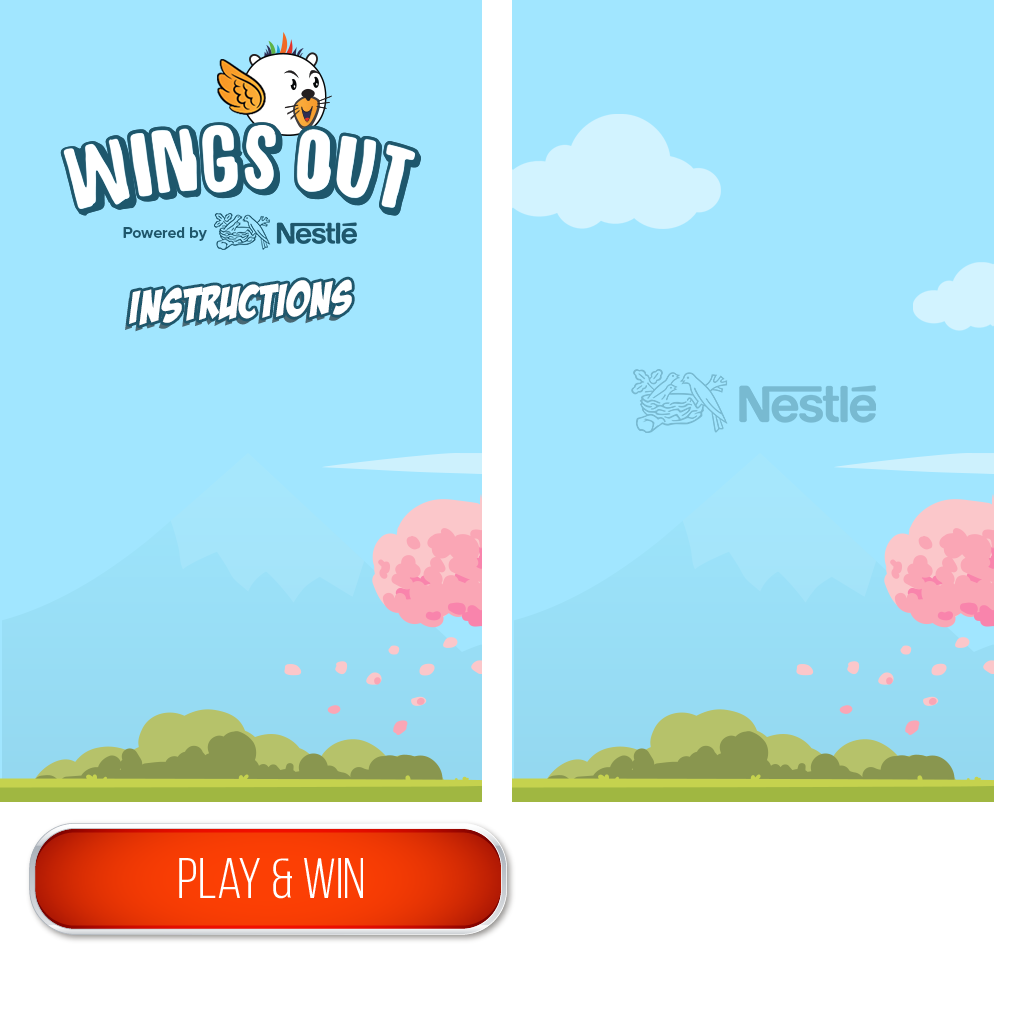
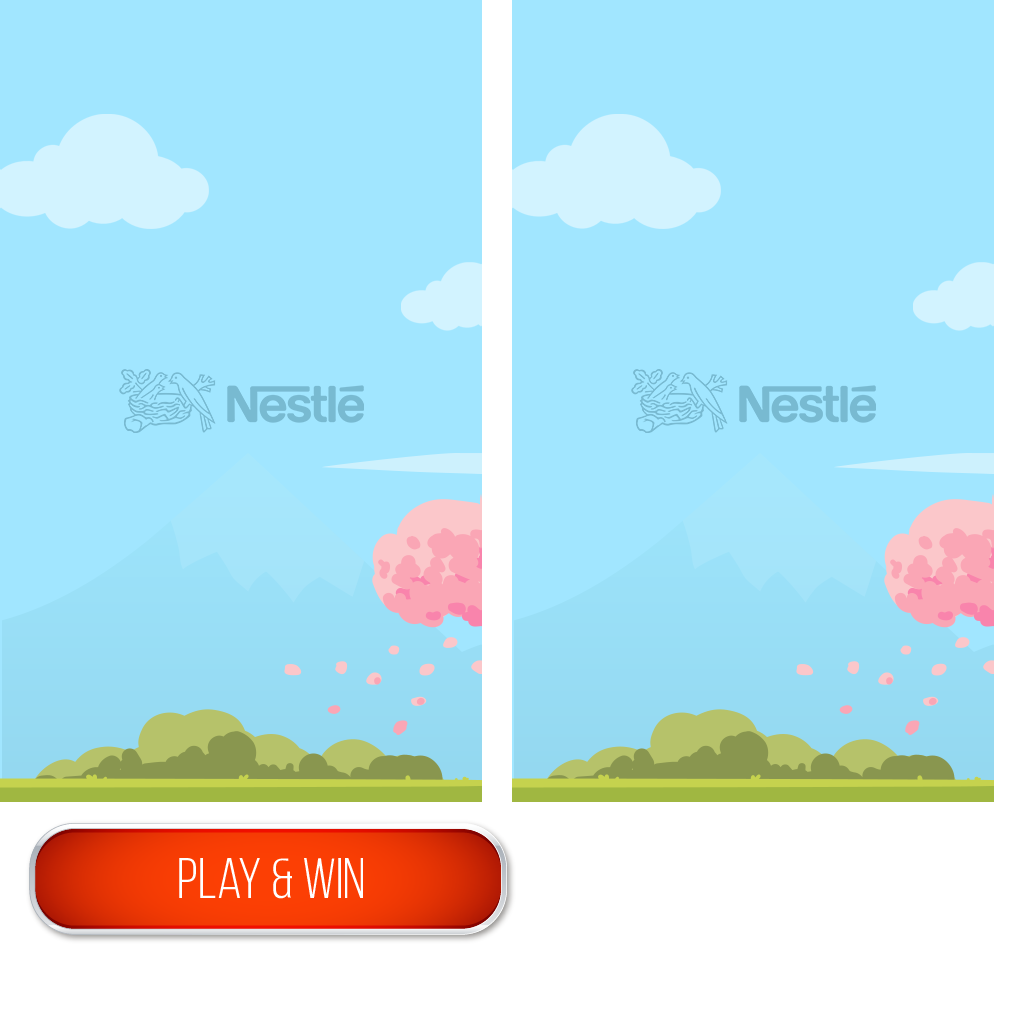
final

Changed region(s): [[0.0, 0.0312, 0.4062, 0.4375], [0.375, 0.25, 0.4688, 0.3438]]

diff --git a/data.js b/data.js
@@ -1,1 +1,1 @@
-{"project":["Flying Daz","Menu",[[0,false,true,true,true,true,true,true,true,false],[1,false,true,true,true,false,false,false,false,false],[3,true,false,false,false,false,false,false,false,false],[4,false,true,true,true,true,true,true,true,true],[5,false,true,true,true,true,true,true,true,false],[7,true,false,false,false,false,false,false,false,false],[8,true,false,false,false,false,false,false,false,false],[9,true,false,false,false,false,false,false,false,false],[10,false,true,true,true,false,false,false,false,false]],[["Sprite",0,false,[],0,0,null,[["Default",5,false,1,0,false,1393132005821332,[["images/shared-0-sheet0.png",163322,1,1,480,800,1,0.5,0.5,[],[-0.5,-0.5,0,-0.5,0.4979166666666667,-0.5,0.4979166666666667,0,0.4979166666666667,0.49875,0,0.49875,-0.5,0.49875,-0.5,0],0]]]],[],false,true,4964123340204649,[],null],["Sprite2",0,false,[],0,0,null,[["Default",5,false,1,0,false,5423385207864809,[["images/shared-0-sheet4.png",1073,0,0,108,61,1,0.5,0.508197,[],[-0.4444444,-0.40983630000000004,0,-0.4754101,0.44444399999999995,-0.40983630000000004,0.48148100000000005,-0.01639400000000002,0.453704,0.409836,0,0.47541,-0.4537037,0.409836,-0.4814815,-0.01639400000000002],0]]]],[],false,false,561258163338029,[],null],["Button2",1,false,[],0,0,null,null,[],false,false,2574843507174612,[],null],["Sprite3",0,false,[],0,0,null,[["Default",5,false,1,0,false,8356031828295757,[["images/shared-0-sheet3.png",49757,137,1,115,111,1,0.504348,0.504505,[],[-0.191305,-0.18018099999999998,-0.008696000000000037,-0.38738799999999995,0.017390999999999934,-0.009009999999999962,0.017390999999999934,-0.009009999999999962,0.37391299999999994,0.36936900000000006,-0.008696000000000037,0.495495,-0.38260900000000003,0.36936900000000006,-0.06956500000000004,-0.009009999999999962],0]]]],[],false,false,9533404973379886,[],null],["Sprite4",0,false,[],0,0,null,[["Default",5,false,1,0,false,6430424900520584,[["images/shared-0-sheet0.png",163322,513,1,480,800,1,0.5,0.500978,[],[-0.5,-0.500978,0,-0.500978,0.4979166666666667,-0.500978,0.4979166666666667,-0.0009780000000000344,0.4979166666666667,0.497772,0,0.497772,-0.5,0.497772,-0.5,-0.0009780000000000344],0]]]],[],false,false,576234191087211,[],null],["Sprite5",0,false,[],1,0,null,[["Default",10,false,1,0,false,5552198826423713,[["images/shared-0-sheet3.png",49757,129,182,102,72,1,0.5,0.5,[],[-0.21383512244897962,-0.3616071428571428,0.08928571428571452,-0.3511904761904762,0.2699575714285716,-0.04910714285714307,0.2728086530612246,0.27157738095238126,0.1195978979591843,0.48214252380952394,-0.08418367346938738,0.49627976190476186,-0.3568427959183674,0.11383895238095276,-0.346938775510204,-0.17485119047619024],0],["images/shared-0-sheet3.png",49757,1,182,102,72,1,0.5,0.5,[],[-0.16791675510204096,-0.19791666666666674,0.09948979591836726,-0.4107142857142857,0.25720246938775515,-0.2723214285714285,0.31362497959183666,0.141369047619048,0.25480197959183737,0.37797585714285675,0.04336734693877475,0.5,-0.19867953061224491,0.34821395238095243,-0.34183673469387754,-0.01860119047619041],0]]]],[["Platform",2,1593079543931459]],false,false,8880592809369787,[],null],["Mouse",3,false,[],0,0,null,null,[],false,false,4336291366746725,[],null,[]],["Sprite6",0,false,[6617839752655299],0,0,null,[["Default",5,false,1,0,false,1423263038755727,[["images/shared-0-sheet2.png",269226,107,1,104,640,1,0.508772,0.501538,[],[-0.508772,-0.501538,0.491228,-0.501538,0.44509146153846146,0.49787275,-0.017544000000000004,0.49846199999999996,-0.4571103923076923,0.492842625],0]]]],[],false,false,7213654666255091,[],null],["Sprite7",0,false,[],0,0,null,[["Default",5,false,1,0,false,2610034895066063,[["images/shared-0-sheet2.png",269226,1,1,104,640,1,0.5,0.501538,[],[-0.47081045384615383,-0.501538,0.45879092307692304,-0.501538,0.5,0.49846199999999996,-0.5,0.49621424999999997],0]]]],[],false,false,6358373644877836,[],null],["TiledBackground",4,false,[],0,0,["images/tiledbackground-sheet0.png",4222,0,0,0,337,17],null,[],false,false,8862384049867816,[],null],["TiledBackground2",4,false,[],0,0,["images/tiledbackground2-sheet0.png",4222,0,0,0,337,17],null,[],false,false,2397778750218094,[],null],["Text",5,false,[],0,0,null,null,[],false,false,5606101963679141,[],null],["Sprite8",0,false,[],0,0,null,[["Default",5,false,1,0,false,7712839185583907,[["images/shared-0-sheet2.png",269226,769,513,250,250,1,0.5,0.5,[],[],0]]]],[],false,false,5867399459174119,[],null],["Sprite9",0,false,[],1,0,null,[["Default",5,false,1,0,false,632513710534152,[["images/shared-0-sheet3.png",49757,1,1,134,134,1,0.5,0.503311,[],[-0.36666699999999997,-0.344371,0,-0.49668847999999993,0.37222200000000005,-0.35099299999999994,0.488889,-0.006621999999999961,0.3337481492537311,0.3343999402985074,0.004664179104477584,0.44801426865671645,-0.349523328358209,0.305667328358209,-0.49444444,-0.006621999999999961],0]]]],[["DragDrop",6,559007665408358]],false,true,336497991114589,[],null],["Touch",7,false,[],0,0,null,null,[],false,false,812771115847554,[],null,[true]],["Browser",8,false,[],0,0,null,null,[],false,false,968786528415499,[],null,[]],["Sprite10",0,false,[],0,0,null,[["Animation 1",5,false,1,0,false,998012637433276,[["images/shared-0-sheet2.png",269226,213,1,256,256,1,0.5,0.5,[],[-0.03125,-0.03125,0,-0.046875,0.046875,-0.05078125,0.4296875,0,0.015625,0.015625,0,0.1328125,-0.14453125,0.140625,-0.4453125,0],0]]]],[],false,false,596976730625195,[],null],["AJAX",9,false,[],0,0,null,null,[],false,false,525835348000193,[],null,[]],["Sprite11",0,false,[],0,0,null,[["Animation 1",5,false,1,0,false,259953315795058,[["images/shared-0-sheet1.png",143712,1,1,480,800,1,0.5,0.5,[],[-0.5,-0.5,0,-0.5,0.49750000000000005,-0.5,0.49750000000000005,0,0.49750000000000005,0.498,0,0.498,-0.5,0.498,-0.5,0],0]]]],[],false,false,387558426248170,[],null],["NameInput",10,false,[],0,0,null,null,[],false,false,889300060393533,[],null],["EmailInput",10,false,[],0,0,null,null,[],false,false,800542948052933,[],null],["PhoneInput",10,false,[],0,0,null,null,[],false,false,139598997962273,[],null],["NameText",5,false,[],0,0,null,null,[],false,false,335254482292807,[],null],["EmailText",5,false,[],0,0,null,null,[],false,false,346951033053218,[],null],["Text2",5,false,[],0,0,null,null,[],false,false,646911176194777,[],null],["Sprite12",0,false,[],0,0,null,[["Animation 1",5,false,1,0,false,591142330811460,[["images/shared-0-sheet2.png",269226,513,257,496,131,1,0.5,0.5,[],[-0.4073182779369861,-0.34398155758915255,-0.006944444444444586,-0.34968354430379744,0.40504037360896816,-0.33736780097539587,0.4352220956719819,0.05537974683544311,0.3859058156639268,0.3355084905717818,-0.01892921146953408,0.32007157165385014,-0.4054701596574163,0.3288947339580254,-0.45370370370370366,-0.06329113924050628],0]]]],[],false,false,367115732379633,[],null],["Confirmation",5,false,[],0,0,null,null,[],false,false,968940184656449,[],null],["Sprite13",0,false,[],0,0,null,[["Animation 1",5,false,1,0,false,904992826225042,[["images/shared-0-sheet2.png",269226,213,513,496,131,1,0.5,0.5,[],[-0.40880451457374534,-0.36416139240506323,0,-0.375,0.3883478522901602,-0.37739319620253164,0.4394039009423626,0,0.4037776682007451,0.31787974683544307,-0.004629629629629595,0.3491297468354432,-0.3968469208853824,0.3343354430379749,-0.4535598838483454,0.04746835443038],0]]]],[],false,false,505255774339353,[],null],["Sprite14",0,false,[],0,0,null,[["Animation 1",5,false,1,0,false,405608823074264,[["images/shared-0-sheet0.png",163322,1,803,540,158,1,0.5,0.5,[],[-0.41439636752136755,-0.3904449272624221,-0.009259259259259245,-0.38964985200579383,0.40495904558404594,-0.37676333522262107,0.44444444444444464,0,0.3865295584045586,0.3394499023868003,-0.02083333333333337,0.3369623401977454,-0.4029113247863248,0.33641129794067637,-0.46456552706552706,-0.015822784810126556],0]]]],[],false,false,547625119326240,[],null],["Sprite15",0,false,[],0,0,null,[["Animation 1",5,false,1,0,false,518076908544604,[["images/shared-0-sheet1.png",143712,513,1,480,800,1,0.5,0.5,[],[-0.5,-0.5,0,-0.5,0.4979166666666667,-0.5,0.4979166666666667,0,0.4979166666666667,0.49875,0,0.49875,-0.5,0.49875,-0.5,0],0]]]],[],false,false,921497973235513,[],null],["Sprite16",0,false,[],0,0,null,[["Animation 1",5,false,1,0,false,781584850527997,[["images/shared-0-sheet3.png",49757,1,137,242,43,1,0.5,0.5,[],[-0.49173553719008267,-0.4534883720930233,0,-0.4069767441860465,0.487603305785124,-0.4534883720930233,0.49586776859504134,0,0.487603305785124,0.43023255813953487,0,0.4534883720930233,-0.49586776859504134,0.4534883720930233,-0.5,0],0]]]],[],false,true,642240991751007,[],null],["Instructions",5,false,[],0,0,null,null,[],false,true,807218672933255,[],null],["Display",5,false,[],0,0,null,null,[],false,false,855406720276929,[],null],["Button",1,false,[],0,0,null,null,[],false,false,792601355615941,[],null],["High",5,false,[],0,0,null,null,[],false,false,115824838941316,[],null],["Top10",5,false,[],0,0,null,null,[],false,false,888615787788600,[],null],["decor",5,false,[],0,0,null,null,[],false,false,291602594127028,[],null],["Temp",5,false,[],0,0,null,null,[],false,false,254978526509571,[],null],["Sprite17",0,false,[],0,0,null,[["Animation 1",5,false,1,0,false,590957933364222,[["images/shared-0-sheet2.png",269226,769,769,250,250,1,0.5,0.5,[],[],0]]]],[],false,false,849879012657838,[],null],["topScore",0,false,[],0,0,null,[["Animation 1",5,false,1,0,false,489623775972270,[["images/shared-0-sheet2.png",269226,1,769,496,131,1,0.5,0.5,[],[-0.4596774193548387,-0.40458015267175573,0,-0.3969465648854962,0.43044354838709686,-0.3969465648854962,0.481350806451613,-0.01908396946564883,0.4329637096774194,0.40839694656488545,0.00252016129032262,0.3740458015267176,-0.44556451612903225,0.4007633587786259,-0.4879032258064516,0],0]]]],[],false,false,695021777928985,[],null],["Discore",5,false,[],0,0,null,null,[],false,false,384550051229533,[],null],["final",5,false,[],0,0,null,null,[],false,false,803522702923209,[],null],["Sprite19",0,false,[],0,0,null,[["Animation 1",5,false,1,0,false,683761427402653,[["images/shared-0-sheet1.png",143712,1,803,496,131,1,0.5,0.5,[],[-0.4175925925925926,-0.3686708860759494,-0.03703703703703726,-0.3734177215189874,0.39861111111111114,-0.3892405063291139,0.44259259259259254,0,0.3962962962962965,0.3354430379746838,0,0.35443037974683544,-0.40046296296296297,0.33544303797468356,-0.4550925925925926,0],0]]]],[],false,false,518707202247296,[],null],["last",0,false,[],0,0,null,[["Animation 1",5,false,1,0,false,319011380408783,[["images/shared-0-sheet1.png",143712,513,803,496,131,1,0.5,0.5,[],[-0.4175925925925926,-0.36867088607594933,0,-0.37341772151898733,0.3870370370370374,-0.36550632911392394,0.44259259259259254,0,0.3939814814814818,0.3354430379746838,0,0.35443037974683544,-0.40046296296296297,0.3433544303797469,-0.44814814814814813,0],0]]]],[],false,false,638338560809439,[],null],["Text3",5,false,[],0,0,null,null,[],false,true,212405193465464,[],null],["Text4",5,false,[],0,0,null,null,[],false,true,104815420703232,[],null],["visitStore",0,false,[],0,0,null,[["Animation 1",5,false,1,0,false,966169629942289,[["images/shared-0-sheet2.png",269226,513,1,496,131,1,0.5,0.5,[],[-0.4375,-0.2633587786259542,0,-0.4389312977099237,0.4516129032258065,-0.3244274809160306,0.4556451612903226,0,0.44354838709677424,0.2862595419847328,0,0.44656488549618323,-0.43548387096774194,0.24809160305343514,-0.43951612903225806,0],0]]]],[],false,false,507664983512350,[],null],["UniText",5,false,[],0,0,null,null,[],false,false,979966991095272,[],null],["UniInput",10,false,[],0,0,null,null,[],false,false,110320729418629,[],null]],[],[["Menu",480,800,false,"Event sheet 1",813435304774142,[["Layer 0",0,4928235318697103,true,[255,255,255],false,1,1,1,false,false,1,0,0,[[[241,401,0,478,800,0,0,1,0.5,0.5,0,0,[]],0,0,[],[],[true,"Default",0,true]],[[250,540,0,79.25408542362649,79.25408542362649,0,0,1,0.5,0.503311,0,0,[]],13,11,[],[[0,true]],[true,"Default",0,true]],[[246,470,0,192.7282699722893,34.24510582152248,0,0,1,0.5,0.5,0,0,[]],30,2,[],[],[true,"Animation 1",0,true]],[[12,347,0,439,98,0,0,1,0,0,0,0,[]],31,14,[],[],["1- Help Daz fly to the other side  \n2- Tap to make him fly higher and avoid bumping into the poles\n3- Score the highest for a chance to win a Dolce Gusto Coffee Machine\n4- Click on 'Play' to get started!",false,"Arial",11.5,0,false,false,[0,0.25098039215686274,0.5019607843137255],0,1,0,true,0]],[[12,588,0,200,30,0,0,1,0,0,0,0,[]],44,8,[],[],["TERMS & CONDITIONS:",false,"Arial",12,0,false,false,[0,0.25098039215686274,0.5019607843137255],0,0,0,true,0]],[[4,613,0,372,41,0,0,1,0,0,0,0,[]],45,9,[],[],["- Winner will be contacted via email  \n- Daraz reserves the right to award winners",false,"Arial",11,0,false,false,[0,0.25098039215686274,0.5019607843137255],0,0,0,true,0]]],[],0]],[],[]],["Game",480,800,false,"Event sheet 2",7054034641972203,[["Layer 0",0,360173619558835,true,[255,255,255],false,1,1,1,false,false,1,0,0,[[[239.5,401.502934,0,488,800,0,0,1,0.5,0.500978,0,0,[]],4,3,[],[],[true,"Default",0,true]],[[112,340,0,82.75100634929701,59.21386573416339,0,0,1,0.5,0.5,0,0,[]],5,4,[],[[0,1500,1500,650,1500,1000,false,0,true,true]],[true,"Default",0,true]],[[566.999938965,741.895385742,0,74,680,0,0,1,0.508772,0.501538,0,0,[]],7,6,[[0]],[],[true,"Default",0,true]],[[-59,10.750762939,0,73,477,0,0,1,0.5,0.501538,0,0,[]],8,7,[],[],[true,"Default",0,true]]],[],0],["Layer 1",1,824997212790849,true,[255,255,255],true,1,1,1,false,false,1,0,0,[[[25,41,0,270,74,0,0,1,0,0,0,0,[]],11,10,[],[],["0",false,"Arial",33,0,false,false,[1,1,0.8],0,0,0,true,0]]],[],0]],[],[]],["Final",480,800,false,"Event sheet 3",620830751206250,[["Layer 0",0,395103375760716,true,[255,255,255],false,1,1,1,false,false,1,0,0,[[[240.5,399.5,0,488,801,0,0,1,0.5,0.5,0,0,[]],18,16,[],[],[true,"Animation 1",0,true]],[[157,222,0,205.52159600320118,25.590237634639838,0,0,1,0,0,0,0,[]],19,17,[],[],["","","",true,true,false,false,0,true,""]],[[157,259,0,205.52159600320118,25.590237634639838,0,0,1,0,0,0,0,[]],20,18,[],[],["","","",true,true,false,false,0,true,""]],[[157,296,0,205.52159600320118,25.590237634639838,0,0,1,0,0,0,0,[]],21,19,[],[],["","","",true,true,false,false,4,true,""]],[[85,230,0,64.2337122343231,25.196907656224475,0,0,1,0,0,0,0,[]],22,20,[],[],["NAME",false,"Arial",12,0,false,false,[0,0.25098039215686274,0.5019607843137255],0,1,0,true,0]],[[84,266,0,75.38454718807449,24.875535524150507,0,0,1,0,0,0,0,[]],23,21,[],[],["EMAIL",false,"Arial",12,0,false,false,[0,0.25098039215686274,0.5019607843137255],0,1,0,true,0]],[[76,304,0,80.52868900676708,24.611475602706832,0,0,1,0,0,0,0,[]],24,22,[],[],["PHONE",false,"Arial",12,0,false,false,[0,0.25098039215686274,0.5019607843137255],0,1,0,true,0]],[[247,506,0,203.533,48.662,0,0,1,0.5,0.5,0,0,[]],25,23,[],[],[false,"Animation 1",0,true]],[[105,357,0,282,83,0,0,1,0,0,0,0,[]],26,24,[],[],["Score has been Added!!\nThank you for your Participation!\nStay Tuned with Daraz!\n",false,"Arial",12,0,false,false,[0,0.25098039215686274,0.5019607843137255],1,1,0,false,0]],[[246,564,0,203.533,48.662,0,0,1,0.5,0.5,0,0,[]],27,25,[],[],[true,"Animation 1",0,true]],[[95,160,0,314,60,0,0,1,0,0,0,0,[]],32,28,[],[],["has been logged!\nPlease submit your details.",false,"Arial",16,0,false,false,[0,0.25098039215686274,0.5019607843137255],1,0,0,true,0]],[[247,618,0,203.533,48.662,0,0,1,0.5,0.5,0,0,[]],39,26,[],[],[false,"Animation 1",0,true]],[[136,121,0,156,30,0,0,1,0,0,0,0,[]],40,33,[],[],["Your Score :",false,"Arial",20,0,false,false,[0,0.25098039215686274,0.5019607843137255],0,1,0,true,0]],[[295,117,0,157,40,0,0,1,0,0,0,0,[]],41,34,[],[],["0",false,"Arial",25,0,false,false,[0,0.25098039215686274,0.5019607843137255],0,0,0,true,0]],[[247,455,0,203.533,48.662,0,0,1,0.5,0.5,0,0,[]],46,37,[],[],[false,"Animation 1",0,true]],[[38,341,0,100.2337122343231,25.196907656224475,0,0,1,0,0,0,0,[]],47,40,[],[],["UNIVERSITY",false,"Arial",12,0,false,false,[0,0.25098039215686274,0.5019607843137255],0,1,0,true,0]],[[157,333,0,205.52159600320118,25.590237634639838,0,0,1,0,0,0,0,[]],48,39,[],[],["","","",true,true,false,false,0,true,""]]],[],0]],[],[]],["Splash",480,800,false,"Event sheet 4",334263116829157,[["Layer 0",0,426875695464246,true,[255,255,255],false,1,1,1,false,false,1,0,0,[[[240,400,0,480,800,0,0,1,0.5,0.5,0,0,[]],29,27,[],[],[true,"Animation 1",0,true]],[[143,111,0,200,30,0,0,1,0,0,0,0,[]],34,29,[],[],["Top 10 High Scores",false,"Arial",17,0,false,false,[1,1,1],0,0,0,true,0]],[[27,161,0,390,395,0,0,1,0,0,0,0,[]],35,30,[],[],["",false,"Arial",12,0,false,false,[1,1,1],0,0,0,true,0]],[[93,140,0,299,30,0,0,1,0,0,0,0,[]],36,31,[],[],["================================",false,"Arial",12,0,false,false,[1,1,1],0,0,0,true,0]],[[153,253,0,200,68,0,0,1,0,0,0,0,[]],37,32,[],[],["Please wait while the score is loading..",false,"Arial",16,0,false,false,[1,1,1],1,0,0,true,0]],[[250,584,0,203.533,48.662,0,0,1,0.5,0.5,0,0,[]],42,35,[],[],[true,"Animation 1",0,true]],[[251,634,0,203.533,48.662,0,0,1,0.5,0.5,0,0,[]],43,36,[],[],[true,"Animation 1",0,true]]],[],0]],[],[]]],[["Event sheet 1",[[0,null,false,null,9443870342977488,[[14,11,null,1,false,false,false,7831443225202787,null,[[4,13]]]],[[-1,12,null,7052091377467977,null,[[6,"Game"]]],[-1,13,null,199173049232889,null,[[11,"ca1cd3c3055991bf20499ee86739f7e2"],[7,[3,[1,1]]]]]]]]],["Event sheet 2",[[1,"ca1cd3c3055991bf20499ee86739f7e2",0,-1,false,false,5445505578776546,false],[1,"SECONDSPERTICK",0,1,false,true,4168613484299564,false],[1,"s",1,"",false,false,103965146235660,false],[1,"web_app_url",1,"https://script.google.com/macros/s/AKfycbwST5gfHw-kpz_yXNSxZw9WRWQih11tf8YwDaz4WQZ_U5ynhDM/exec",false,false,739007772900223,false],[0,null,false,null,9738095022888128,[[14,14,null,1,false,false,false,8826641917803341,null]],[[5,15,"Platform",2840984979323257,null,[[0,[5,[20,5,16,false,null],[1,850]]]]],[5,17,null,2948151137742414,null,[[3,1]]],[5,18,null,5093259802344395,null,[[0,[1,320]]]]]],[0,null,false,null,1202615859203067,[[5,19,null,0,false,false,true,6241361961390549,null,[[4,7]]]],[[-1,12,null,405722869933906,null,[[6,"Final"]]]]],[0,null,false,null,1243265082953658,[[5,19,null,0,false,false,true,6680394977637079,null,[[4,8]]]],[[-1,12,null,581731913117290,null,[[6,"Final"]]]]],[0,null,false,null,8252958596625004,[[5,20,null,0,false,false,false,1346436896633493,null]],[[-1,12,null,198607994406590,null,[[6,"Final"]]]]],[0,null,false,null,6712032144356998,[[-1,21,null,0,false,false,false,1281422020036334,null]],[[8,22,null,3067140511304611,null,[[0,[5,[20,8,23,false,null],[1,5]]]]],[7,22,null,644147347656629,null,[[0,[5,[20,7,23,false,null],[1,5]]]]]]],[0,null,false,null,4487159994830935,[[-1,24,null,0,false,false,false,264969624309235,null,[[0,[23,"SECONDSPERTICK"]]]]],[[-1,25,null,336797798963120,null,[[4,8],[5,[1,0]],[0,[1,500]],[0,[19,26,[[1,50],[3,[1,150]]]]]]],[-1,25,null,480376061058931,null,[[4,7],[5,[1,0]],[0,[1,500]],[0,[4,[20,8,16,false,null],[1,820]]]]],[7,27,null,8620893255087995,null,[[10,0],[3,0]]]]],[0,null,false,null,3501621113364987,[[5,28,null,0,false,false,false,973402086689707,null,[[0,[1,1]],[0,[1,360]]]]],[[5,18,null,1321872969593035,null,[[0,[4,[20,5,29,false,null],[1,1]]]]]]],[0,null,false,null,2219961052850856,[[-1,30,null,1,false,false,false,9300582250180858,null]],[[11,31,null,2180209574785663,null,[[7,[1,0]]]]]],[0,null,false,null,3034903989539794,[[7,20,null,0,false,false,false,8329733398121777,null]],[[7,32,null,9126346962036340,null]]],[0,null,false,null,8210638893697663,[[7,33,null,1,false,false,false,5113379428055256,null]],[[-1,34,null,5716393016293131,null,[[11,"ca1cd3c3055991bf20499ee86739f7e2"],[7,[1,1]]]],[11,31,null,8822476034886771,null,[[7,[23,"ca1cd3c3055991bf20499ee86739f7e2"]]]],[7,27,null,2683831327960307,null,[[10,0],[3,1]]]]]]],["Event sheet 3",[[0,null,false,null,953514335274900,[[14,11,null,1,false,false,false,675258870164215,null,[[4,25]]]],[[-1,13,null,654477517929274,null,[[11,"s"],[7,[10,[10,[23,"web_app_url"],[2,"?name="]],[19,35,[[20,19,36,true,null]]]]]]],[-1,13,null,376145357999251,null,[[11,"s"],[7,[10,[10,[23,"s"],[2,"&score="]],[23,"ca1cd3c3055991bf20499ee86739f7e2"]]]]],[-1,13,null,996337523594330,null,[[11,"s"],[7,[10,[10,[23,"s"],[2,"&email="]],[20,20,36,true,null]]]]],[-1,13,null,411130622235495,null,[[11,"s"],[7,[10,[10,[23,"s"],[2,"&phone="]],[20,21,36,true,null]]]]],[-1,13,null,440626792262994,null,[[11,"s"],[7,[10,[10,[23,"s"],[2,"&university="]],[20,48,36,true,null]]]]],[17,37,null,305347790511797,null,[[1,[2,"senddata"]],[1,[23,"s"]],[1,[2,""]],[1,[2,"GET"]]]],[26,38,null,401195694014010,null,[[3,1]]],[25,32,null,866812808831417,null],[39,39,null,438600389056841,null,[[3,1]]],[46,39,null,251659640767948,null,[[3,1]]]]],[0,null,false,null,999045428445811,[[14,11,null,1,false,false,false,752436486698801,null,[[4,27]]]],[[-1,12,null,306198402426133,null,[[6,"Game"]]],[-1,13,null,348969924502970,null,[[11,"ca1cd3c3055991bf20499ee86739f7e2"],[7,[3,[1,1]]]]]]],[0,null,false,null,112599420946176,[[21,40,null,1,false,false,false,860634210077745,null]],[[25,39,null,573393313618559,null,[[3,1]]]]],[0,null,false,null,684932969432664,[[14,11,null,1,false,false,false,102631053414345,null,[[4,46]]]],[[15,41,null,378850145978925,null,[[1,[2,"https://www.daraz.pk/shop/nestle"]],[3,1]]]]],[0,null,false,null,920115454269026,[[14,11,null,1,false,false,false,450429773074732,null,[[4,39]]]],[[-1,12,null,384898997727715,null,[[6,"Splash"]]]]],[0,null,false,null,662289522981536,[[-1,30,null,1,false,false,false,585586141722099,null]],[[41,31,null,896453812413328,null,[[7,[23,"ca1cd3c3055991bf20499ee86739f7e2"]]]]]]]],["Event sheet 4",[[0,null,false,null,712860930029754,[[17,42,null,1,false,false,false,485396286470825,null,[[1,[2,"senddata"]]]]],[[37,38,null,203104905263505,null,[[3,1]]]]],[0,null,false,null,216678498978354,[[17,43,null,1,false,false,false,152843392372776,null,[[1,[2,"senddata"]]]]],[[37,38,null,554804429345659,null,[[3,0]]],[35,31,null,739059443531418,null,[[7,[20,17,44,true,null]]]]]],[0,null,false,null,854549536551642,[[14,11,null,1,false,false,false,254626937230682,null,[[4,43]]]],[[15,41,null,946799274527298,null,[[1,[2,"https://www.daraz.pk/shop/nestle"]],[3,1]]]]],[0,null,false,null,993166438872975,[[14,11,null,1,false,false,false,766275392407052,null,[[4,42]]]],[[-1,12,null,224672952905509,null,[[6,"Game"]]],[-1,13,null,586010158512740,null,[[11,"ca1cd3c3055991bf20499ee86739f7e2"],[7,[3,[1,1]]]]]]]]]],[],"media/",false,480,800,4,true,true,true,"1.0.0.0",true,true,1,0,41,false,true,1,true,false,[],"icons/",[],true,"u8se8qxh4gob","fonts/",[],"high-performance"]}
+{"project":["Flying Daz","Menu",[[0,false,true,true,true,true,true,true,true,false],[1,false,true,true,true,false,false,false,false,false],[3,true,false,false,false,false,false,false,false,false],[4,false,true,true,true,true,true,true,true,true],[5,false,true,true,true,true,true,true,true,false],[7,true,false,false,false,false,false,false,false,false],[8,true,false,false,false,false,false,false,false,false],[9,true,false,false,false,false,false,false,false,false],[10,false,true,true,true,false,false,false,false,false]],[["Sprite",0,false,[],0,0,null,[["Default",5,false,1,0,false,1393132005821332,[["images/shared-0-sheet1.png",210642,513,1,480,800,1,0.5,0.5,[],[-0.5,-0.5,0,-0.5,0.4979166666666667,-0.5,0.4979166666666667,0,0.4979166666666667,0.49875,0,0.49875,-0.5,0.49875,-0.5,0],0]]]],[],false,true,4964123340204649,[],null],["Sprite2",0,false,[],0,0,null,[["Default",5,false,1,0,false,5423385207864809,[["images/shared-0-sheet4.png",1073,0,0,108,61,1,0.5,0.508197,[],[-0.4444444,-0.40983630000000004,0,-0.4754101,0.44444399999999995,-0.40983630000000004,0.48148100000000005,-0.01639400000000002,0.453704,0.409836,0,0.47541,-0.4537037,0.409836,-0.4814815,-0.01639400000000002],0]]]],[],false,false,561258163338029,[],null],["Button2",1,false,[],0,0,null,null,[],false,false,2574843507174612,[],null],["Sprite3",0,false,[],0,0,null,[["Default",5,false,1,0,false,8356031828295757,[["images/shared-0-sheet3.png",49757,137,1,115,111,1,0.504348,0.504505,[],[-0.191305,-0.18018099999999998,-0.008696000000000037,-0.38738799999999995,0.017390999999999934,-0.009009999999999962,0.017390999999999934,-0.009009999999999962,0.37391299999999994,0.36936900000000006,-0.008696000000000037,0.495495,-0.38260900000000003,0.36936900000000006,-0.06956500000000004,-0.009009999999999962],0]]]],[],false,false,9533404973379886,[],null],["Sprite4",0,false,[],0,0,null,[["Default",5,false,1,0,false,6430424900520584,[["images/shared-0-sheet0.png",105440,513,1,480,800,1,0.5,0.500978,[],[-0.5,-0.500978,0,-0.500978,0.4979166666666667,-0.500978,0.4979166666666667,-0.0009780000000000344,0.4979166666666667,0.497772,0,0.497772,-0.5,0.497772,-0.5,-0.0009780000000000344],0]]]],[],false,false,576234191087211,[],null],["Sprite5",0,false,[],1,0,null,[["Default",10,false,1,0,false,5552198826423713,[["images/shared-0-sheet3.png",49757,129,182,102,72,1,0.5,0.5,[],[-0.21383512244897962,-0.3616071428571428,0.08928571428571452,-0.3511904761904762,0.2699575714285716,-0.04910714285714307,0.2728086530612246,0.27157738095238126,0.1195978979591843,0.48214252380952394,-0.08418367346938738,0.49627976190476186,-0.3568427959183674,0.11383895238095276,-0.346938775510204,-0.17485119047619024],0],["images/shared-0-sheet3.png",49757,1,182,102,72,1,0.5,0.5,[],[-0.16791675510204096,-0.19791666666666674,0.09948979591836726,-0.4107142857142857,0.25720246938775515,-0.2723214285714285,0.31362497959183666,0.141369047619048,0.25480197959183737,0.37797585714285675,0.04336734693877475,0.5,-0.19867953061224491,0.34821395238095243,-0.34183673469387754,-0.01860119047619041],0]]]],[["Platform",2,1593079543931459]],false,false,8880592809369787,[],null],["Mouse",3,false,[],0,0,null,null,[],false,false,4336291366746725,[],null,[]],["Sprite6",0,false,[6617839752655299],0,0,null,[["Default",5,false,1,0,false,1423263038755727,[["images/shared-0-sheet2.png",260343,1,1,104,640,1,0.508772,0.501538,[],[-0.508772,-0.501538,0.491228,-0.501538,0.44509146153846146,0.49787275,-0.017544000000000004,0.49846199999999996,-0.4571103923076923,0.492842625],0]]]],[],false,false,7213654666255091,[],null],["Sprite7",0,false,[],0,0,null,[["Default",5,false,1,0,false,2610034895066063,[["images/shared-0-sheet2.png",260343,107,1,104,640,1,0.5,0.501538,[],[-0.47081045384615383,-0.501538,0.45879092307692304,-0.501538,0.5,0.49846199999999996,-0.5,0.49621424999999997],0]]]],[],false,false,6358373644877836,[],null],["TiledBackground",4,false,[],0,0,["images/tiledbackground-sheet0.png",4222,0,0,0,337,17],null,[],false,false,8862384049867816,[],null],["TiledBackground2",4,false,[],0,0,["images/tiledbackground2-sheet0.png",4222,0,0,0,337,17],null,[],false,false,2397778750218094,[],null],["Text",5,false,[],0,0,null,null,[],false,false,5606101963679141,[],null],["Sprite8",0,false,[],0,0,null,[["Default",5,false,1,0,false,7712839185583907,[["images/shared-0-sheet2.png",260343,769,513,250,250,1,0.5,0.5,[],[],0]]]],[],false,false,5867399459174119,[],null],["Sprite9",0,false,[],1,0,null,[["Default",5,false,1,0,false,632513710534152,[["images/shared-0-sheet3.png",49757,1,1,134,134,1,0.5,0.503311,[],[-0.36666699999999997,-0.344371,0,-0.49668847999999993,0.37222200000000005,-0.35099299999999994,0.488889,-0.006621999999999961,0.3337481492537311,0.3343999402985074,0.004664179104477584,0.44801426865671645,-0.349523328358209,0.305667328358209,-0.49444444,-0.006621999999999961],0]]]],[["DragDrop",6,559007665408358]],false,true,336497991114589,[],null],["Touch",7,false,[],0,0,null,null,[],false,false,812771115847554,[],null,[true]],["Browser",8,false,[],0,0,null,null,[],false,false,968786528415499,[],null,[]],["Sprite10",0,false,[],0,0,null,[["Animation 1",5,false,1,0,false,998012637433276,[["images/shared-0-sheet2.png",260343,213,1,256,256,1,0.5,0.5,[],[-0.03125,-0.03125,0,-0.046875,0.046875,-0.05078125,0.4296875,0,0.015625,0.015625,0,0.1328125,-0.14453125,0.140625,-0.4453125,0],0]]]],[],false,false,596976730625195,[],null],["AJAX",9,false,[],0,0,null,null,[],false,false,525835348000193,[],null,[]],["Sprite11",0,false,[],0,0,null,[["Animation 1",5,false,1,0,false,259953315795058,[["images/shared-0-sheet0.png",105440,1,1,480,800,1,0.5,0.5,[],[-0.5,-0.5,0,-0.5,0.49750000000000005,-0.5,0.49750000000000005,0,0.49750000000000005,0.498,0,0.498,-0.5,0.498,-0.5,0],0]]]],[],false,false,387558426248170,[],null],["NameInput",10,false,[],0,0,null,null,[],false,false,889300060393533,[],null],["EmailInput",10,false,[],0,0,null,null,[],false,false,800542948052933,[],null],["PhoneInput",10,false,[],0,0,null,null,[],false,false,139598997962273,[],null],["NameText",5,false,[],0,0,null,null,[],false,false,335254482292807,[],null],["EmailText",5,false,[],0,0,null,null,[],false,false,346951033053218,[],null],["Text2",5,false,[],0,0,null,null,[],false,false,646911176194777,[],null],["Sprite12",0,false,[],0,0,null,[["Animation 1",5,false,1,0,false,591142330811460,[["images/shared-0-sheet1.png",210642,1,803,496,131,1,0.5,0.5,[],[-0.4073182779369861,-0.34398155758915255,-0.006944444444444586,-0.34968354430379744,0.40504037360896816,-0.33736780097539587,0.4352220956719819,0.05537974683544311,0.3859058156639268,0.3355084905717818,-0.01892921146953408,0.32007157165385014,-0.4054701596574163,0.3288947339580254,-0.45370370370370366,-0.06329113924050628],0]]]],[],false,false,367115732379633,[],null],["Confirmation",5,false,[],0,0,null,null,[],false,false,968940184656449,[],null],["Sprite13",0,false,[],0,0,null,[["Animation 1",5,false,1,0,false,904992826225042,[["images/shared-0-sheet1.png",210642,513,803,496,131,1,0.5,0.5,[],[-0.40880451457374534,-0.36416139240506323,0,-0.375,0.3883478522901602,-0.37739319620253164,0.4394039009423626,0,0.4037776682007451,0.31787974683544307,-0.004629629629629595,0.3491297468354432,-0.3968469208853824,0.3343354430379749,-0.4535598838483454,0.04746835443038],0]]]],[],false,false,505255774339353,[],null],["Sprite14",0,false,[],0,0,null,[["Animation 1",5,false,1,0,false,405608823074264,[["images/shared-0-sheet0.png",105440,1,803,540,158,1,0.5,0.5,[],[-0.41439636752136755,-0.3904449272624221,-0.009259259259259245,-0.38964985200579383,0.40495904558404594,-0.37676333522262107,0.44444444444444464,0,0.3865295584045586,0.3394499023868003,-0.02083333333333337,0.3369623401977454,-0.4029113247863248,0.33641129794067637,-0.46456552706552706,-0.015822784810126556],0]]]],[],false,false,547625119326240,[],null],["Sprite15",0,false,[],0,0,null,[["Animation 1",5,false,1,0,false,518076908544604,[["images/shared-0-sheet1.png",210642,1,1,480,800,1,0.5,0.5,[],[-0.5,-0.5,0,-0.5,0.4979166666666667,-0.5,0.4979166666666667,0,0.4979166666666667,0.49875,0,0.49875,-0.5,0.49875,-0.5,0],0]]]],[],false,false,921497973235513,[],null],["Sprite16",0,false,[],0,0,null,[["Animation 1",5,false,1,0,false,781584850527997,[["images/shared-0-sheet3.png",49757,1,137,242,43,1,0.5,0.5,[],[-0.49173553719008267,-0.4534883720930233,0,-0.4069767441860465,0.487603305785124,-0.4534883720930233,0.49586776859504134,0,0.487603305785124,0.43023255813953487,0,0.4534883720930233,-0.49586776859504134,0.4534883720930233,-0.5,0],0]]]],[],false,true,642240991751007,[],null],["Instructions",5,false,[],0,0,null,null,[],false,true,807218672933255,[],null],["Display",5,false,[],0,0,null,null,[],false,false,855406720276929,[],null],["Button",1,false,[],0,0,null,null,[],false,false,792601355615941,[],null],["High",5,false,[],0,0,null,null,[],false,false,115824838941316,[],null],["Top10",5,false,[],0,0,null,null,[],false,false,888615787788600,[],null],["decor",5,false,[],0,0,null,null,[],false,false,291602594127028,[],null],["Temp",5,false,[],0,0,null,null,[],false,false,254978526509571,[],null],["Sprite17",0,false,[],0,0,null,[["Animation 1",5,false,1,0,false,590957933364222,[["images/shared-0-sheet2.png",260343,769,769,250,250,1,0.5,0.5,[],[],0]]]],[],false,false,849879012657838,[],null],["topScore",0,false,[],0,0,null,[["Animation 1",5,false,1,0,false,489623775972270,[["images/shared-0-sheet2.png",260343,513,1,496,131,1,0.5,0.5,[],[-0.4596774193548387,-0.40458015267175573,0,-0.3969465648854962,0.43044354838709686,-0.3969465648854962,0.481350806451613,-0.01908396946564883,0.4329637096774194,0.40839694656488545,0.00252016129032262,0.3740458015267176,-0.44556451612903225,0.4007633587786259,-0.4879032258064516,0],0]]]],[],false,false,695021777928985,[],null],["Discore",5,false,[],0,0,null,null,[],false,false,384550051229533,[],null],["final",5,false,[],0,0,null,null,[],false,false,803522702923209,[],null],["Sprite19",0,false,[],0,0,null,[["Animation 1",5,false,1,0,false,683761427402653,[["images/shared-0-sheet2.png",260343,213,513,496,131,1,0.5,0.5,[],[-0.4175925925925926,-0.3686708860759494,-0.03703703703703726,-0.3734177215189874,0.39861111111111114,-0.3892405063291139,0.44259259259259254,0,0.3962962962962965,0.3354430379746838,0,0.35443037974683544,-0.40046296296296297,0.33544303797468356,-0.4550925925925926,0],0]]]],[],false,false,518707202247296,[],null],["last",0,false,[],0,0,null,[["Animation 1",5,false,1,0,false,319011380408783,[["images/shared-0-sheet2.png",260343,1,769,496,131,1,0.5,0.5,[],[-0.4175925925925926,-0.36867088607594933,0,-0.37341772151898733,0.3870370370370374,-0.36550632911392394,0.44259259259259254,0,0.3939814814814818,0.3354430379746838,0,0.35443037974683544,-0.40046296296296297,0.3433544303797469,-0.44814814814814813,0],0]]]],[],false,false,638338560809439,[],null],["Text3",5,false,[],0,0,null,null,[],false,true,212405193465464,[],null],["Text4",5,false,[],0,0,null,null,[],false,true,104815420703232,[],null],["visitStore",0,false,[],0,0,null,[["Animation 1",5,false,1,0,false,966169629942289,[["images/shared-0-sheet2.png",260343,513,257,496,131,1,0.5,0.5,[],[-0.4375,-0.2633587786259542,0,-0.4389312977099237,0.4516129032258065,-0.3244274809160306,0.4556451612903226,0,0.44354838709677424,0.2862595419847328,0,0.44656488549618323,-0.43548387096774194,0.24809160305343514,-0.43951612903225806,0],0]]]],[],false,false,507664983512350,[],null],["UniText",5,false,[],0,0,null,null,[],false,false,979966991095272,[],null],["UniInput",10,false,[],0,0,null,null,[],false,false,110320729418629,[],null]],[],[["Menu",480,800,false,"Event sheet 1",813435304774142,[["Layer 0",0,4928235318697103,true,[255,255,255],false,1,1,1,false,false,1,0,0,[[[240,401,0,478,800,0,0,1,0.5,0.5,0,0,[]],0,0,[],[],[true,"Default",0,true]],[[250,540,0,79.25408542362649,79.25408542362649,0,0,1,0.5,0.503311,0,0,[]],13,11,[],[[0,true]],[true,"Default",0,true]],[[246,470,0,192.7282699722893,34.24510582152248,0,0,1,0.5,0.5,0,0,[]],30,2,[],[],[true,"Animation 1",0,true]],[[12,347,0,439,98,0,0,1,0,0,0,0,[]],31,14,[],[],["1- Help Daz fly to the other side  \n2- Tap to make him fly higher and avoid bumping into the poles\n3- Score the highest for a chance to win a Dolce Gusto Coffee Machine\n4- Click on 'Play' to get started!",false,"Arial",11.5,0,false,false,[0,0.25098039215686274,0.5019607843137255],0,1,0,true,0]],[[12,588,0,200,30,0,0,1,0,0,0,0,[]],44,8,[],[],["TERMS & CONDITIONS:",false,"Arial",12,0,false,false,[0,0.25098039215686274,0.5019607843137255],0,0,0,true,0]],[[4,613,0,372,41,0,0,1,0,0,0,0,[]],45,9,[],[],["- Winner will be contacted via email  \n- Daraz reserves the right to award winners",false,"Arial",11,0,false,false,[0,0.25098039215686274,0.5019607843137255],0,0,0,true,0]]],[],0]],[],[]],["Game",480,800,false,"Event sheet 2",7054034641972203,[["Layer 0",0,360173619558835,true,[255,255,255],false,1,1,1,false,false,1,0,0,[[[239.5,401.502934,0,488,800,0,0,1,0.5,0.500978,0,0,[]],4,3,[],[],[true,"Default",0,true]],[[112,340,0,82.75100634929701,59.21386573416339,0,0,1,0.5,0.5,0,0,[]],5,4,[],[[0,1500,1500,650,1500,1000,false,0,true,true]],[true,"Default",0,true]],[[566.999938965,741.895385742,0,74,680,0,0,1,0.508772,0.501538,0,0,[]],7,6,[[0]],[],[true,"Default",0,true]],[[-59,10.750762939,0,73,477,0,0,1,0.5,0.501538,0,0,[]],8,7,[],[],[true,"Default",0,true]]],[],0],["Layer 1",1,824997212790849,true,[255,255,255],true,1,1,1,false,false,1,0,0,[[[25,41,0,270,74,0,0,1,0,0,0,0,[]],11,10,[],[],["0",false,"Arial",33,0,false,false,[0,0.25098039215686274,0.5019607843137255],0,0,0,true,0]]],[],0]],[],[]],["Final",480,800,false,"Event sheet 3",620830751206250,[["Layer 0",0,395103375760716,true,[255,255,255],false,1,1,1,false,false,1,0,0,[[[240.5,399.5,0,488,801,0,0,1,0.5,0.5,0,0,[]],18,16,[],[],[true,"Animation 1",0,true]],[[157,222,0,205.52159600320118,25.590237634639838,0,0,1,0,0,0,0,[]],19,17,[],[],["","","",true,true,false,false,0,true,""]],[[157,259,0,205.52159600320118,25.590237634639838,0,0,1,0,0,0,0,[]],20,18,[],[],["","","",true,true,false,false,0,true,""]],[[157,296,0,205.52159600320118,25.590237634639838,0,0,1,0,0,0,0,[]],21,19,[],[],["","","",true,true,false,false,4,true,""]],[[85,230,0,64.2337122343231,25.196907656224475,0,0,1,0,0,0,0,[]],22,20,[],[],["NAME",false,"Arial",12,0,false,false,[0,0.25098039215686274,0.5019607843137255],0,1,0,true,0]],[[84,266,0,75.38454718807449,24.875535524150507,0,0,1,0,0,0,0,[]],23,21,[],[],["EMAIL",false,"Arial",12,0,false,false,[0,0.25098039215686274,0.5019607843137255],0,1,0,true,0]],[[76,304,0,80.52868900676708,24.611475602706832,0,0,1,0,0,0,0,[]],24,22,[],[],["PHONE",false,"Arial",12,0,false,false,[0,0.25098039215686274,0.5019607843137255],0,1,0,true,0]],[[247,506,0,203.533,48.662,0,0,1,0.5,0.5,0,0,[]],25,23,[],[],[false,"Animation 1",0,true]],[[105,357,0,282,83,0,0,1,0,0,0,0,[]],26,24,[],[],["Score has been Added!!\nThank you for your Participation!\nStay Tuned with Daraz!\n",false,"Arial",12,0,false,false,[0,0.25098039215686274,0.5019607843137255],1,1,0,false,0]],[[246,564,0,203.533,48.662,0,0,1,0.5,0.5,0,0,[]],27,25,[],[],[true,"Animation 1",0,true]],[[95,160,0,314,60,0,0,1,0,0,0,0,[]],32,28,[],[],["has been logged!\nPlease submit your details.",false,"Arial",16,0,false,false,[0,0.25098039215686274,0.5019607843137255],1,0,0,true,0]],[[247,618,0,203.533,48.662,0,0,1,0.5,0.5,0,0,[]],39,26,[],[],[false,"Animation 1",0,true]],[[136,121,0,156,30,0,0,1,0,0,0,0,[]],40,33,[],[],["Your Score :",false,"Arial",20,0,false,false,[0,0.25098039215686274,0.5019607843137255],0,1,0,true,0]],[[295,117,0,157,40,0,0,1,0,0,0,0,[]],41,34,[],[],["0",false,"Arial",25,0,false,false,[0,0.25098039215686274,0.5019607843137255],0,0,0,true,0]],[[247,455,0,203.533,48.662,0,0,1,0.5,0.5,0,0,[]],46,37,[],[],[false,"Animation 1",0,true]],[[38,341,0,100.2337122343231,25.196907656224475,0,0,1,0,0,0,0,[]],47,40,[],[],["UNIVERSITY",false,"Arial",12,0,false,false,[0,0.25098039215686274,0.5019607843137255],0,1,0,true,0]],[[157,333,0,205.52159600320118,25.590237634639838,0,0,1,0,0,0,0,[]],48,39,[],[],["","","",true,true,false,false,0,true,""]]],[],0]],[],[]],["Splash",480,800,false,"Event sheet 4",334263116829157,[["Layer 0",0,426875695464246,true,[255,255,255],false,1,1,1,false,false,1,0,0,[[[240,400,0,480,800,0,0,1,0.5,0.5,0,0,[]],29,27,[],[],[true,"Animation 1",0,true]],[[143,111,0,200,30,0,0,1,0,0,0,0,[]],34,29,[],[],["Top 10 High Scores",false,"Arial",17,0,false,false,[0,0.25098039215686274,0.5019607843137255],0,0,0,true,0]],[[27,161,0,430,395,0,0,1,0,0,0,0,[]],35,30,[],[],["",false,"Arial",12,0,false,false,[0,0.25098039215686274,0.5019607843137255],0,0,0,true,0]],[[93,140,0,299,30,0,0,1,0,0,0,0,[]],36,31,[],[],["================================",false,"Arial",12,0,false,false,[0,0.25098039215686274,0.5019607843137255],0,0,0,true,0]],[[153,253,0,200,68,0,0,1,0,0,0,0,[]],37,32,[],[],["Please wait while the score is loading..",false,"Arial",16,0,false,false,[0,0.25098039215686274,0.5019607843137255],1,0,0,true,0]],[[250,584,0,203.533,48.662,0,0,1,0.5,0.5,0,0,[]],42,35,[],[],[true,"Animation 1",0,true]],[[251,634,0,203.533,48.662,0,0,1,0.5,0.5,0,0,[]],43,36,[],[],[true,"Animation 1",0,true]]],[],0]],[],[]]],[["Event sheet 1",[[0,null,false,null,9443870342977488,[[14,11,null,1,false,false,false,7831443225202787,null,[[4,13]]]],[[-1,12,null,7052091377467977,null,[[6,"Game"]]],[-1,13,null,199173049232889,null,[[11,"ca1cd3c3055991bf20499ee86739f7e2"],[7,[3,[1,1]]]]]]]]],["Event sheet 2",[[1,"ca1cd3c3055991bf20499ee86739f7e2",0,-1,false,false,5445505578776546,false],[1,"SECONDSPERTICK",0,1,false,true,4168613484299564,false],[1,"s",1,"",false,false,103965146235660,false],[1,"web_app_url",1,"https://script.google.com/macros/s/AKfycbwST5gfHw-kpz_yXNSxZw9WRWQih11tf8YwDaz4WQZ_U5ynhDM/exec",false,false,739007772900223,false],[0,null,false,null,9738095022888128,[[14,14,null,1,false,false,false,8826641917803341,null]],[[5,15,"Platform",2840984979323257,null,[[0,[5,[20,5,16,false,null],[1,850]]]]],[5,17,null,2948151137742414,null,[[3,1]]],[5,18,null,5093259802344395,null,[[0,[1,320]]]]]],[0,null,false,null,1202615859203067,[[5,19,null,0,false,false,true,6241361961390549,null,[[4,7]]]],[[-1,12,null,405722869933906,null,[[6,"Final"]]]]],[0,null,false,null,1243265082953658,[[5,19,null,0,false,false,true,6680394977637079,null,[[4,8]]]],[[-1,12,null,581731913117290,null,[[6,"Final"]]]]],[0,null,false,null,8252958596625004,[[5,20,null,0,false,false,false,1346436896633493,null]],[[-1,12,null,198607994406590,null,[[6,"Final"]]]]],[0,null,false,null,6712032144356998,[[-1,21,null,0,false,false,false,1281422020036334,null]],[[8,22,null,3067140511304611,null,[[0,[5,[20,8,23,false,null],[1,5]]]]],[7,22,null,644147347656629,null,[[0,[5,[20,7,23,false,null],[1,5]]]]]]],[0,null,false,null,4487159994830935,[[-1,24,null,0,false,false,false,264969624309235,null,[[0,[23,"SECONDSPERTICK"]]]]],[[-1,25,null,336797798963120,null,[[4,8],[5,[1,0]],[0,[1,500]],[0,[19,26,[[1,50],[3,[1,150]]]]]]],[-1,25,null,480376061058931,null,[[4,7],[5,[1,0]],[0,[1,500]],[0,[4,[20,8,16,false,null],[1,820]]]]],[7,27,null,8620893255087995,null,[[10,0],[3,0]]]]],[0,null,false,null,3501621113364987,[[5,28,null,0,false,false,false,973402086689707,null,[[0,[1,1]],[0,[1,360]]]]],[[5,18,null,1321872969593035,null,[[0,[4,[20,5,29,false,null],[1,1]]]]]]],[0,null,false,null,2219961052850856,[[-1,30,null,1,false,false,false,9300582250180858,null]],[[11,31,null,2180209574785663,null,[[7,[1,0]]]]]],[0,null,false,null,3034903989539794,[[7,20,null,0,false,false,false,8329733398121777,null]],[[7,32,null,9126346962036340,null]]],[0,null,false,null,8210638893697663,[[7,33,null,1,false,false,false,5113379428055256,null]],[[-1,34,null,5716393016293131,null,[[11,"ca1cd3c3055991bf20499ee86739f7e2"],[7,[1,1]]]],[11,31,null,8822476034886771,null,[[7,[23,"ca1cd3c3055991bf20499ee86739f7e2"]]]],[7,27,null,2683831327960307,null,[[10,0],[3,1]]]]]]],["Event sheet 3",[[0,null,false,null,953514335274900,[[14,11,null,1,false,false,false,675258870164215,null,[[4,25]]]],[[-1,13,null,654477517929274,null,[[11,"s"],[7,[10,[10,[23,"web_app_url"],[2,"?name="]],[19,35,[[20,19,36,true,null]]]]]]],[-1,13,null,376145357999251,null,[[11,"s"],[7,[10,[10,[23,"s"],[2,"&score="]],[23,"ca1cd3c3055991bf20499ee86739f7e2"]]]]],[-1,13,null,996337523594330,null,[[11,"s"],[7,[10,[10,[23,"s"],[2,"&email="]],[20,20,36,true,null]]]]],[-1,13,null,411130622235495,null,[[11,"s"],[7,[10,[10,[23,"s"],[2,"&phone="]],[20,21,36,true,null]]]]],[-1,13,null,440626792262994,null,[[11,"s"],[7,[10,[10,[23,"s"],[2,"&university="]],[20,48,36,true,null]]]]],[17,37,null,305347790511797,null,[[1,[2,"senddata"]],[1,[23,"s"]],[1,[2,""]],[1,[2,"GET"]]]],[26,38,null,401195694014010,null,[[3,1]]],[25,32,null,866812808831417,null],[39,39,null,438600389056841,null,[[3,1]]],[46,39,null,251659640767948,null,[[3,1]]]]],[0,null,false,null,999045428445811,[[14,11,null,1,false,false,false,752436486698801,null,[[4,27]]]],[[-1,12,null,306198402426133,null,[[6,"Game"]]],[-1,13,null,348969924502970,null,[[11,"ca1cd3c3055991bf20499ee86739f7e2"],[7,[3,[1,1]]]]]]],[0,null,false,null,112599420946176,[[21,40,null,1,false,false,false,860634210077745,null]],[[25,39,null,573393313618559,null,[[3,1]]]]],[0,null,false,null,684932969432664,[[14,11,null,1,false,false,false,102631053414345,null,[[4,46]]]],[[15,41,null,378850145978925,null,[[1,[2,"https://www.daraz.pk/shop/nestle"]],[3,1]]]]],[0,null,false,null,920115454269026,[[14,11,null,1,false,false,false,450429773074732,null,[[4,39]]]],[[-1,12,null,384898997727715,null,[[6,"Splash"]]]]],[0,null,false,null,662289522981536,[[-1,30,null,1,false,false,false,585586141722099,null]],[[41,31,null,896453812413328,null,[[7,[23,"ca1cd3c3055991bf20499ee86739f7e2"]]]]]]]],["Event sheet 4",[[0,null,false,null,712860930029754,[[17,42,null,1,false,false,false,485396286470825,null,[[1,[2,"senddata"]]]]],[[37,38,null,203104905263505,null,[[3,1]]]]],[0,null,false,null,216678498978354,[[17,43,null,1,false,false,false,152843392372776,null,[[1,[2,"senddata"]]]]],[[37,38,null,554804429345659,null,[[3,0]]],[35,31,null,739059443531418,null,[[7,[20,17,44,true,null]]]]]],[0,null,false,null,854549536551642,[[14,11,null,1,false,false,false,254626937230682,null,[[4,43]]]],[[15,41,null,946799274527298,null,[[1,[2,"https://www.daraz.pk/shop/nestle"]],[3,1]]]]],[0,null,false,null,993166438872975,[[14,11,null,1,false,false,false,766275392407052,null,[[4,42]]]],[[-1,12,null,224672952905509,null,[[6,"Game"]]],[-1,13,null,586010158512740,null,[[11,"ca1cd3c3055991bf20499ee86739f7e2"],[7,[3,[1,1]]]]]]]]]],[],"media/",false,480,800,4,true,true,true,"1.0.0.0",true,true,1,0,41,false,true,1,true,false,[],"icons/",[],true,"u8se8qxh4gob","fonts/",[],"high-performance"]}

diff --git a/offline.js b/offline.js
@@ -1,1 +1,1 @@
-{"version":1552556460976,"fileList":["c2runtime.js","data.js","start.js","style.css","offlineClient.js","images/shared-0-sheet0.png","images/shared-0-sheet1.png","images/shared-0-sheet2.png","images/shared-0-sheet3.png","images/shared-0-sheet4.png","images/tiledbackground-sheet0.png","images/tiledbackground2-sheet0.png","icons/icon-16.png","icons/icon-32.png","icons/icon-114.png","icons/icon-128.png","icons/icon-256.png","icons/loading-logo.png","register-sw.js"]}
+{"version":1552573097160,"fileList":["c2runtime.js","data.js","start.js","style.css","offlineClient.js","images/shared-0-sheet4.png","images/tiledbackground-sheet0.png","images/tiledbackground2-sheet0.png","images/shared-0-sheet2.png","images/shared-0-sheet1.png","images/shared-0-sheet0.png","images/shared-0-sheet3.png","icons/icon-16.png","icons/icon-32.png","icons/icon-114.png","icons/icon-128.png","icons/icon-256.png","icons/loading-logo.png","register-sw.js"]}
